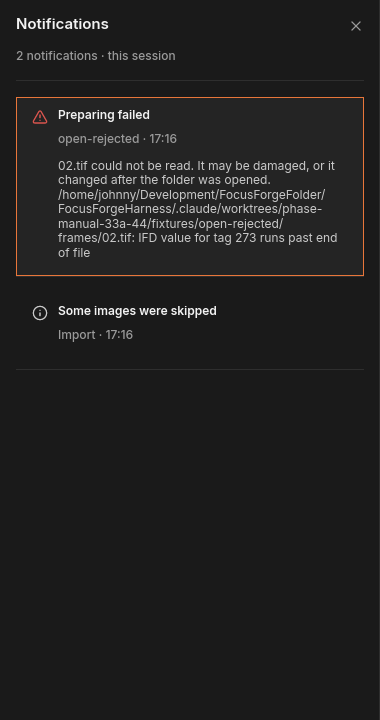
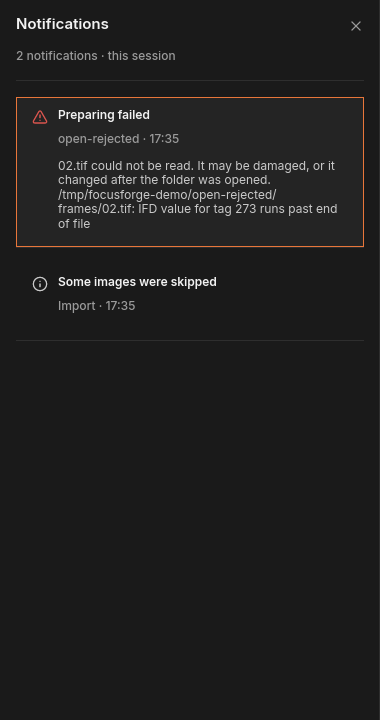
docs: correct the manual after review: neutral paths in screenshots, current refusal and brightness notices
Re-shoots three pictures that showed a local path on a neutral path, drops stale unreadable-layout rows, aligns the brightness notice and failure card wording with the interface, and fixes the update screenshot.

Changed region(s): [[0.0868, 0.2444, 0.8974, 0.4889], [0.4342, 0.1833, 0.4632, 0.2139]]

diff --git a/docs/troubleshooting.md b/docs/troubleshooting.md
@@ -30,7 +30,7 @@ The same dialog title appears with other messages:
 | Message | Cause and fix |
 |---|---|
 | "`<path>`: not a folder of frames or a FocusForge project" | You opened a single file that is neither a frame nor a project file. Open the folder of frames or the `.ffp` file instead. |
-| "`<name>` is a BigTIFF file, which FocusForge cannot read. Save the frames as standard TIFF and open them again." (titled "These frames cannot be read") | A frame is BigTIFF, or uses a TIFF layout other than standard 8- or 16-bit TIFF ("`<name>` uses a TIFF layout FocusForge cannot read. Save the frames as standard 8- or 16-bit TIFF and open them again."). Re-export the frames as standard TIFF. |
+| "`<name>` is a BigTIFF file, which FocusForge cannot read. Save the frames as standard TIFF and open them again." (titled "These frames cannot be read") | A frame is BigTIFF, or uses a TIFF layout other than standard 8- or 16-bit TIFF ("`<name>` uses a TIFF layout FocusForge cannot read. Save the frames as standard 8- or 16-bit TIFF and open them again."). Re-export the frames as standard TIFF. The same title also carries "`<name>` is not a TIFF file, though its name says so." (the file is not a TIFF despite its .tif or .tiff name: restore or re-export it), "`<name>` is damaged: its TIFF header does not read." (the start of the file is damaged: restore or re-export it) and "`<name>` could not be read: …" (the operating system's reason follows: check that the file is there and readable). |
 | "`<path>` is no longer on disk. This project cannot be fused again until it is back." (titled "A frame is no longer there") | You pressed **Fuse stack** on a project whose frames were moved or deleted. On a saved project, **Locate frames…** chooses the folder that holds them now; an unsaved one offers **Close**. See [The frames are no longer there](#the-frames-are-no-longer-there). |
 
 See: ["No frames here"](guide/first-stack.md#no-frames-here) in *Your first stack*.
@@ -156,12 +156,13 @@ its own. See
 In the **Images** list a row reads "Preview unavailable", and the **Frame**
 pane reads "Cannot show this frame:" with the file name.
 
-**Cause:** FocusForge cannot decode that file: it is damaged or cut short, or
-it is a TIFF layout FocusForge does not read (JPEG-compressed, 32-bit
-floating point, BigTIFF). A fuse of the stack will fail; see the next section.
+**Cause:** FocusForge cannot decode that file: it is damaged or cut short. A
+fuse of the stack will fail; see the next section. (A TIFF layout FocusForge
+does not read is refused when the folder is opened instead; see
+"These frames cannot be read", under ["No frames here"](#no-frames-here).)
 
-**Fix:** exclude or remove the frame in the **Images** panel, or re-export it
-as an uncompressed or LZW-compressed TIFF. See [Which files can FocusForge read?](#which-files-can-focusforge-read)
+**Fix:** exclude or remove the frame in the **Images** panel, or restore or
+re-export it. See [Which files can FocusForge read?](#which-files-can-focusforge-read)
 and [The Images panel](guide/images-panel.md#leave-a-frame-out-of-the-next-fuse).
 
 ## Fusing
@@ -183,13 +184,12 @@ the folder was opened.", and the line below gives the reason, for example:
 | Full message | Cause |
 |---|---|
 | "`<path>`: IFD value for tag 273 runs past end of file" | The frame's file is cut short, for example by an interrupted copy. |
-| "`<path>`: BigTIFF (magic 43) is not supported, only classic TIFF (magic 42)" | The frame is a BigTIFF file. |
-| "`<path>`: Compression=7 is not supported by the decoded TIFF reader" | The frame is a TIFF compressed with JPEG (a 32-bit floating-point TIFF reads `BitsPerSample=[32, 32, 32]` instead). |
 
 **Fix:** **Retry** runs the same fuse again, which only helps when the cause
-was passing (a network drive that was briefly away). For a damaged or
-unsupported frame, exclude or remove it, or replace it with an uncompressed
-or LZW-compressed TIFF export, and fuse again.
+was passing (a network drive that was briefly away). For a damaged
+frame, exclude or remove it, or replace it with an intact copy of the file,
+and fuse again. A TIFF layout FocusForge cannot read is refused when the
+folder is opened, see ["These frames cannot be read"](guide/first-stack.md#these-frames-cannot-be-read).
 
 See: [When a fuse fails](guide/first-stack.md#when-a-fuse-fails) and
 [Cards that need attention](guide/batch-runs.md#cards-that-need-attention).
@@ -246,8 +246,7 @@ allows, so the frame stays a little brighter or darker than the rest. A
 notice per frame at the default limit.
 
 **Fix:** if you see blotches where that frame contributed, raise **Max
-brightness gain** to the value the notice suggests and fuse again, or exclude
-the frame.
+brightness gain** and fuse again, or exclude the frame.
 
 See: [When a frame needs more than the limit](guide/stacking.md#when-a-frame-needs-more-than-the-limit).
 

diff --git a/docs/guide/first-stack.md b/docs/guide/first-stack.md
@@ -219,6 +219,9 @@ the folder:
 |---|---|
 | "`<name>` is a BigTIFF file, which FocusForge cannot read. Save the frames as standard TIFF and open them again." | The frame is a BigTIFF file (the 64-bit variant of TIFF). |
 | "`<name>` uses a TIFF layout FocusForge cannot read. Save the frames as standard 8- or 16-bit TIFF and open them again." | The frame is stored in a layout other than standard 8- or 16-bit grey or colour TIFF. |
+| "`<name>` is not a TIFF file, though its name says so." | The file ends in .tif or .tiff but does not start like a TIFF file. |
+| "`<name>` is damaged: its TIFF header does not read." | The start of the file is unreadable. |
+| "`<name>` could not be read: …" | The file could not be opened or read; the operating system's reason follows. |
 
 The projects overview lists the folder as a "Not a project" card. Re-export
 the frames from your raw converter or photo editor as standard TIFF, then
@@ -466,7 +469,7 @@ stops and says so:
   with a sentence naming the unreadable file, for example "02.tif could not
   be read. It may be damaged, or it changed after the folder was opened.",
   followed by the reason on the next line. The project's card reads, for
-  example, "FAILED WHILE SETTING UP". It
+  example, "FAILED WHILE PREPARING". The notification
   shows as a short pop-up message while the window is in front, and stays in
   the notification center behind the bell, where its full message names the
   file and the reason.

diff --git a/docs/guide/stacking.md b/docs/guide/stacking.md
@@ -157,15 +157,13 @@ A frame that would need a larger gain than **Max brightness gain** allows is
 brightened or darkened only up to the limit. After the run, FocusForge reports
 it in a notification titled "Brightness not fully matched", naming the frame
 in the sentence "`<file>` could not be brought to the same brightness as the
-other frames." Similar notices report a completely
-black frame (it keeps its brightness, because a gain cannot brighten black)
-and a frame whose gain pushes highlights to pure white. See
+other frames." The notice names the frame only. See
 [Projects, notifications and quitting](batch-runs.md) for where notifications
 appear.
 
 The result is still usable: only that frame stays a little brighter or darker
-than the rest. If you see blotches where it contributed, raise the limit to
-the value the notice suggests and fuse again, or exclude the frame.
+than the rest. If you see blotches where it contributed, raise **Max
+brightness gain** and fuse again, or exclude the frame.
 
 ## FUSE: choose how the frames are combined
 
